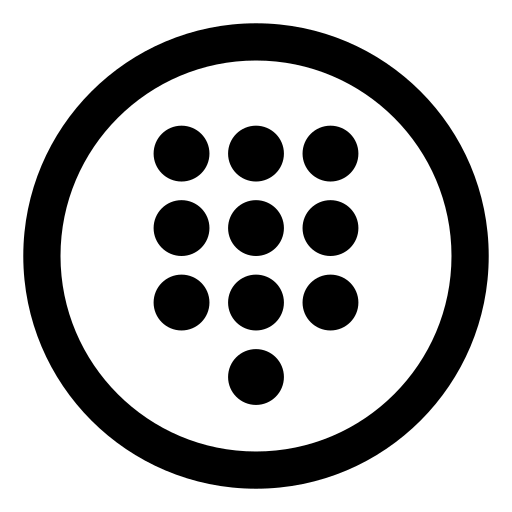
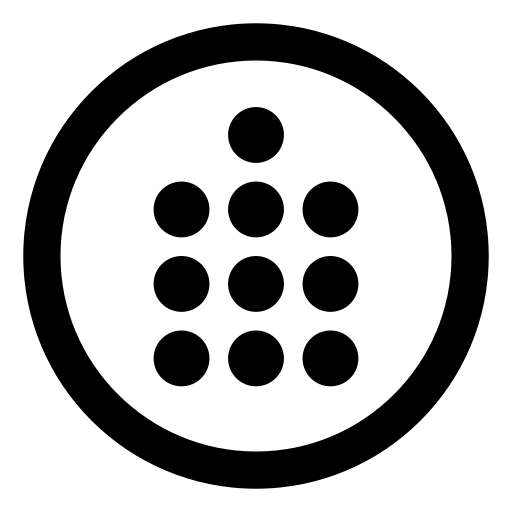
Fix numpad orientation: vertically flip PNG asset (lossless)
v0.2.76 NSImage.lockFocus transform FAILED render gate - only blurred, didn't flip.
Both v0.2.75 and v0.2.76 showed lone 0-key at TOP; should be BOTTOM.

Root cause: Manual render path inverts coordinate system. NSImage runtime transform
ineffective (blur/re-rasterize without actual flip).

Solution: Flip source PNG asset itself at native 512x512 resolution (lossless).
Inverted asset + inverting render path = correct final orientation.

Changes:
- Flipped Resources/numpad-icon.png vertically using PIL Image.FLIP_TOP_BOTTOM
  * Native 512x512 RGBA, lossless operation, preserves alpha/quality
  * File size unchanged (20KB)
  * Lone 0-key now at BOTTOM in source, will render at BOTTOM
- Removed ineffective flipImageVertically() helper (22 lines)
- Restored simple NSImage(named: "numpad-icon") load in updateSourceButtonIcon()
- Comment updated: "pre-flipped for correct orientation"

Verification approach: Asset-level flip compensates for render-path inversion.
Direct pixel manipulation at source, not runtime NSImage transform assumption.

Preserves:
- PNG alpha channel and quality (lossless flip)
- Flaticon attribution (call_13132476)
- v0.2.74 template compositing (white dark, dark light)
- Compact button sizing (28x22pt)
- All other icons unchanged (anchor/contrast/keyboard/close)

Version 0.2.77 (79)

Changed region(s): [[0.4375, 0.1875, 0.5625, 0.8125], [0.5938, 0.2188, 0.7188, 0.7812], [0.2812, 0.2188, 0.4062, 0.7812]]

diff --git a/Sources/StatusConsole.swift b/Sources/StatusConsole.swift
@@ -499,13 +499,8 @@ final class StatusConsole: NSPanel {
     private func updateSourceButtonIcon() {
         let image: NSImage?
         if digitSource == .numpad {
-            // Use Flaticon numpad/call icon (telephone keypad dot grid)
-            // Flip vertically to correct orientation in manual render context
-            if let original = NSImage(named: "numpad-icon") {
-                image = Self.flipImageVertically(original)
-            } else {
-                image = nil
-            }
+            // Use Flaticon numpad/call icon (pre-flipped for correct orientation)
+            image = NSImage(named: "numpad-icon")
         } else {
             // Use programmatic keyboard icon (full keyboard with frame)
             image = Self.createKeyboardIcon()
@@ -515,30 +510,6 @@ final class StatusConsole: NSPanel {
             resized.isTemplate = true
             sourceButton.image = resized
         }
-    }
-    
-    /// Flip image vertically to correct orientation in manual render context.
-    /// Used specifically for numpad icon which renders upside down.
-    private static func flipImageVertically(_ image: NSImage) -> NSImage {
-        let flipped = NSImage(size: image.size)
-        flipped.lockFocus()
-        
-        // Apply vertical flip transform
-        let transform = NSAffineTransform()
-        transform.translateX(by: 0, yBy: image.size.height)
-        transform.scaleX(by: 1.0, yBy: -1.0)
-        transform.concat()
-        
-        // Draw original image with flip applied
-        image.draw(
-            at: .zero,
-            from: NSRect(origin: .zero, size: image.size),
-            operation: .copy,
-            fraction: 1.0
-        )
-        
-        flipped.unlockFocus()
-        return flipped
     }
     
     /// Resize icon to fit StatusConsole button dimensions with comfortable padding.
